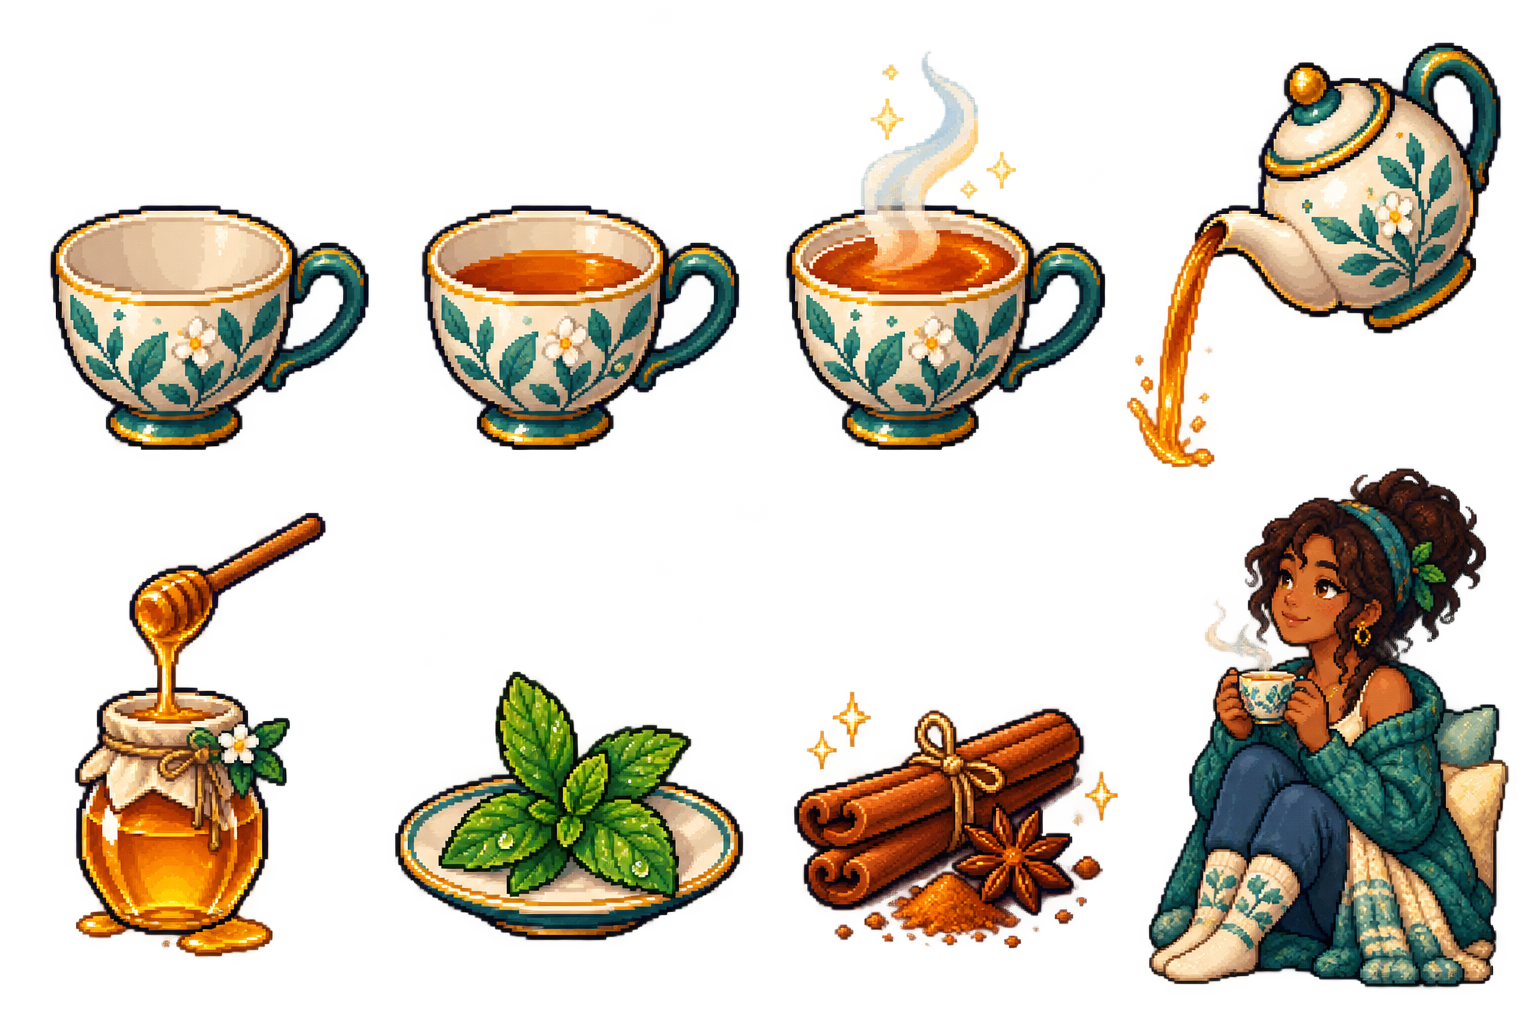
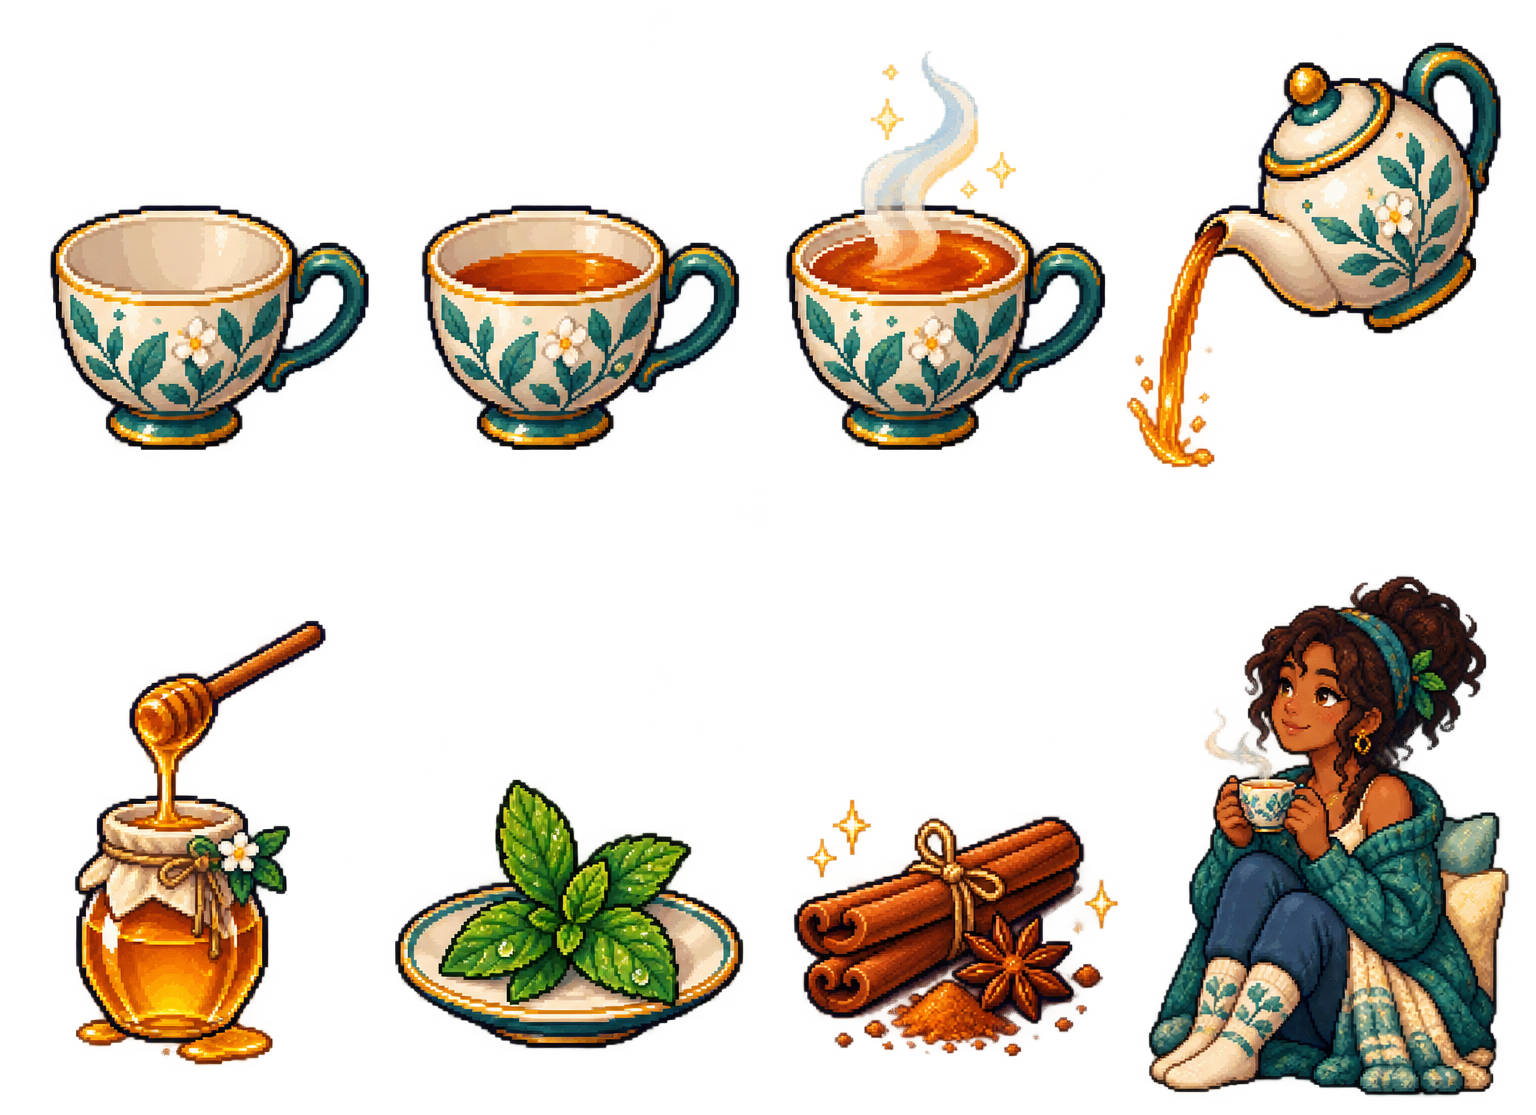
update the ratio and submission md

diff --git a/src/game/recovery/recovery.css b/src/game/recovery/recovery.css
@@ -111,17 +111,19 @@
 .chime-purpose-card button { padding:10px 12px; text-align:left; color:#17364a; border:2px solid #86613a; background:#fffbea; box-shadow:2px 3px 0 rgba(50,35,18,.25); cursor:pointer; }
 .chime-purpose-card button b,.chime-purpose-card button small { display:block; }.chime-purpose-card button small{margin-top:3px}
 .cup-table { display:grid; place-items:center; }
-.warm-production { display:inline-block; width:clamp(110px,18vw,230px); aspect-ratio:3/2; background-image:url('/game/recovery/atlases/warm-cup-production-v2.png'); background-size:400% 200%; background-repeat:no-repeat; image-rendering:pixelated; filter:drop-shadow(4px 6px 2px rgba(46,27,20,.3)); }
-.warm-cup-sprite { position:absolute; left:18%; top:40%; width:clamp(220px,31vw,410px); transform:translate(-50%,-50%); }
-.warm-pour { position:absolute; left:29%; top:26%; width:clamp(210px,29vw,390px); animation:pour-bob 1.8s ease-in-out infinite alternate; }
+.warm-production { display:inline-block; width:clamp(80px,12vw,150px); aspect-ratio:3/4; background-image:url('/game/recovery/atlases/warm-cup-production-v2.png'); background-size:400% 200%; background-repeat:no-repeat; image-rendering:pixelated; filter:drop-shadow(4px 6px 2px rgba(46,27,20,.3)); border:2px solid transparent; background-clip:padding-box; margin:-2px; }
+.warm-cup-sprite { position:absolute; z-index:2; left:42%; top:60%; width:clamp(140px,13vw,190px); transform:translate(-50%,-50%); }
+.warm-pour { position:absolute; z-index:3; left:47.5%; top:43%; width:clamp(230px,13vw,290px); aspect-ratio:1/1.35; background-size:380% auto; translate:-50% -50%; animation:pour-bob 1.8s ease-in-out infinite alternate; }
 .warm-ingredient { position:absolute; left:28%; top:28%; }
-.warm-sky { position:absolute; left:8%; bottom:3%; width:clamp(220px,31vw,410px); }
+.warm-sky { position:absolute; left:8%; bottom:3%; width:clamp(150px,17vw,240px); }
 .cup-step-card,.story-page,.lantern-workbench { position:absolute; z-index:4; width:min(440px,calc(100vw - 32px)); padding:20px; border:3px solid #76522e; background:rgba(255,248,222,.93); box-shadow:5px 6px 0 rgba(42,28,18,.35); }
-.cup-step-card { right:8%; top:27%; }
-.cup-step-card>b,.lantern-workbench>b { display:block; font:700 22px/1.1 var(--serif); margin-bottom:10px; }
+.cup-step-card { right:8%; top:27%; color:#000; }
+.cup-step-card>b { display:block; color:#000; font:700 22px/1.1 var(--serif); margin-bottom:10px; }
+.lantern-workbench>b { display:block; font:700 22px/1.1 var(--serif); margin-bottom:10px; }
+.cup-step-card p { color:#000; }
 .choice-row { display:flex; flex-wrap:wrap; gap:8px; }
 .choice-row button { display:flex; align-items:center; gap:5px; padding:7px 10px; }
-.choice-row .warm-production { width:54px; flex:0 0 54px; margin:-4px; }
+.choice-row .warm-production { width:40px; flex:0 0 40px; margin:-4px; }
 .cup-needs button { flex:1 1 42%; justify-content:center; min-height:44px; }
 .pour-meter { height:14px; margin:12px 0; padding:2px; border:2px solid #77532f; background:#efe0b9; }
 .pour-meter i { display:block; height:100%; background:#bb744e; transition:width .25s; }
@@ -258,7 +260,7 @@
 @keyframes steam{to{transform:scale(2) translateY(-8px);opacity:.55}}
 @keyframes pour-bob{to{transform:translateY(5px) rotate(-1deg)}}
 @keyframes firefly{to{transform:translate(18px,-12px)}}
-@media(max-width:700px){.recovery-header-actions span{display:none}.recovery-header h1{font-size:25px}.recovery-controls span{display:none}.chime-purpose-card{left:12px;top:19%;width:calc(100vw - 24px);padding:14px}.chime-main{top:4%;width:240px}.chime-kai{right:-7%;bottom:11%;width:150px}.chime-pulse{top:43%;width:260px}.cup-step-card{right:16px;top:auto;bottom:75px}.warm-cup-sprite{left:24%;top:25%;width:180px}.warm-pour{left:38%;top:13%;width:180px}.warm-sky{left:0;bottom:42%;width:160px}.firefly-thoughts{left:12px;top:14%;width:calc(100vw - 24px);padding:13px;max-height:68vh;overflow:auto}.firefly-thoughts>div{grid-template-columns:1fr}.firefly-thoughts button{min-height:48px}.firefly-thoughts button .firefly-production{width:40px;flex-basis:40px}.firefly-mira{right:-7%;bottom:9%;width:150px}.story-page{grid-template-columns:1fr;top:46%;max-height:70vh;overflow:auto}.story-vignette{width:180px;margin:0 auto -18px}.story-copy{padding:4px 8px}.lantern-workbench{left:12px;top:20%;width:calc(100vw - 24px);max-height:54vh}.lantern-preview{left:80%;top:14%}.recovery-instruction{bottom:13%}}
+@media(max-width:700px){.recovery-header-actions span{display:none}.recovery-header h1{font-size:25px}.recovery-controls span{display:none}.chime-purpose-card{left:12px;top:19%;width:calc(100vw - 24px);padding:14px}.chime-main{top:4%;width:240px}.chime-kai{right:-7%;bottom:11%;width:150px}.chime-pulse{top:43%;width:260px}.cup-step-card{right:16px;top:auto;bottom:75px}.warm-cup-sprite{left:50%;top:38%;width:130px}.warm-pour{left:54%;top:26%;width:130px;translate:-50% -50%}.warm-sky{left:0;bottom:42%;width:160px}.firefly-thoughts{left:12px;top:14%;width:calc(100vw - 24px);padding:13px;max-height:68vh;overflow:auto}.firefly-thoughts>div{grid-template-columns:1fr}.firefly-thoughts button{min-height:48px}.firefly-thoughts button .firefly-production{width:40px;flex-basis:40px}.firefly-mira{right:-7%;bottom:9%;width:150px}.story-page{grid-template-columns:1fr;top:46%;max-height:70vh;overflow:auto}.story-vignette{width:180px;margin:0 auto -18px}.story-copy{padding:4px 8px}.lantern-workbench{left:12px;top:20%;width:calc(100vw - 24px);max-height:54vh}.lantern-preview{left:80%;top:14%}.recovery-instruction{bottom:13%}}
 @media(max-width:700px){
   .ripple-shimmer{width:120vw;top:39%}.ripple-leaf{width:48px}.ripple-wave-animation{width:125vw;top:41%}.ripple-lotus-bloom{width:360px;top:40%}
   .ripple-dialogue{bottom:14px;grid-template-columns:68px 1fr;width:calc(100vw - 20px);min-height:98px;padding:10px 12px 10px 5px}.ripple-sol-portrait{width:70px;margin:-20px -5px -12px -7px}.ripple-dialogue p{font-size:15px}.ripple-dialogue-result{bottom:10px}

diff --git a/SUBMISSION.md b/SUBMISSION.md
@@ -222,7 +222,7 @@ Key screens from the running prototype.
 ![Library study room](assets/readme/library.gif)
 *Talk to Mira, choose from the open work list with resume badges, answer the blocker question, use one checkpoint proposal, then work at the study desk with timer, scratchpad, saved notes, and Ask Mira.*
 
-![Gentle Ripples water](assets/app-runtime-v1/game/recovery/backgrounds/gentle-ripples.png)
+![Gentle Ripples water](assets/readme/pond.gif)
 *Tap the pond to make ripples: petals drift, a fish swims, flowers bloom with participation. No score, no failure, no minimum time; leaving early is valid, and only the first recovery of a run pays.*
 
 ![Warm Cup ritual](assets/app-runtime-v1/game/recovery/backgrounds/warm-cup.png)
